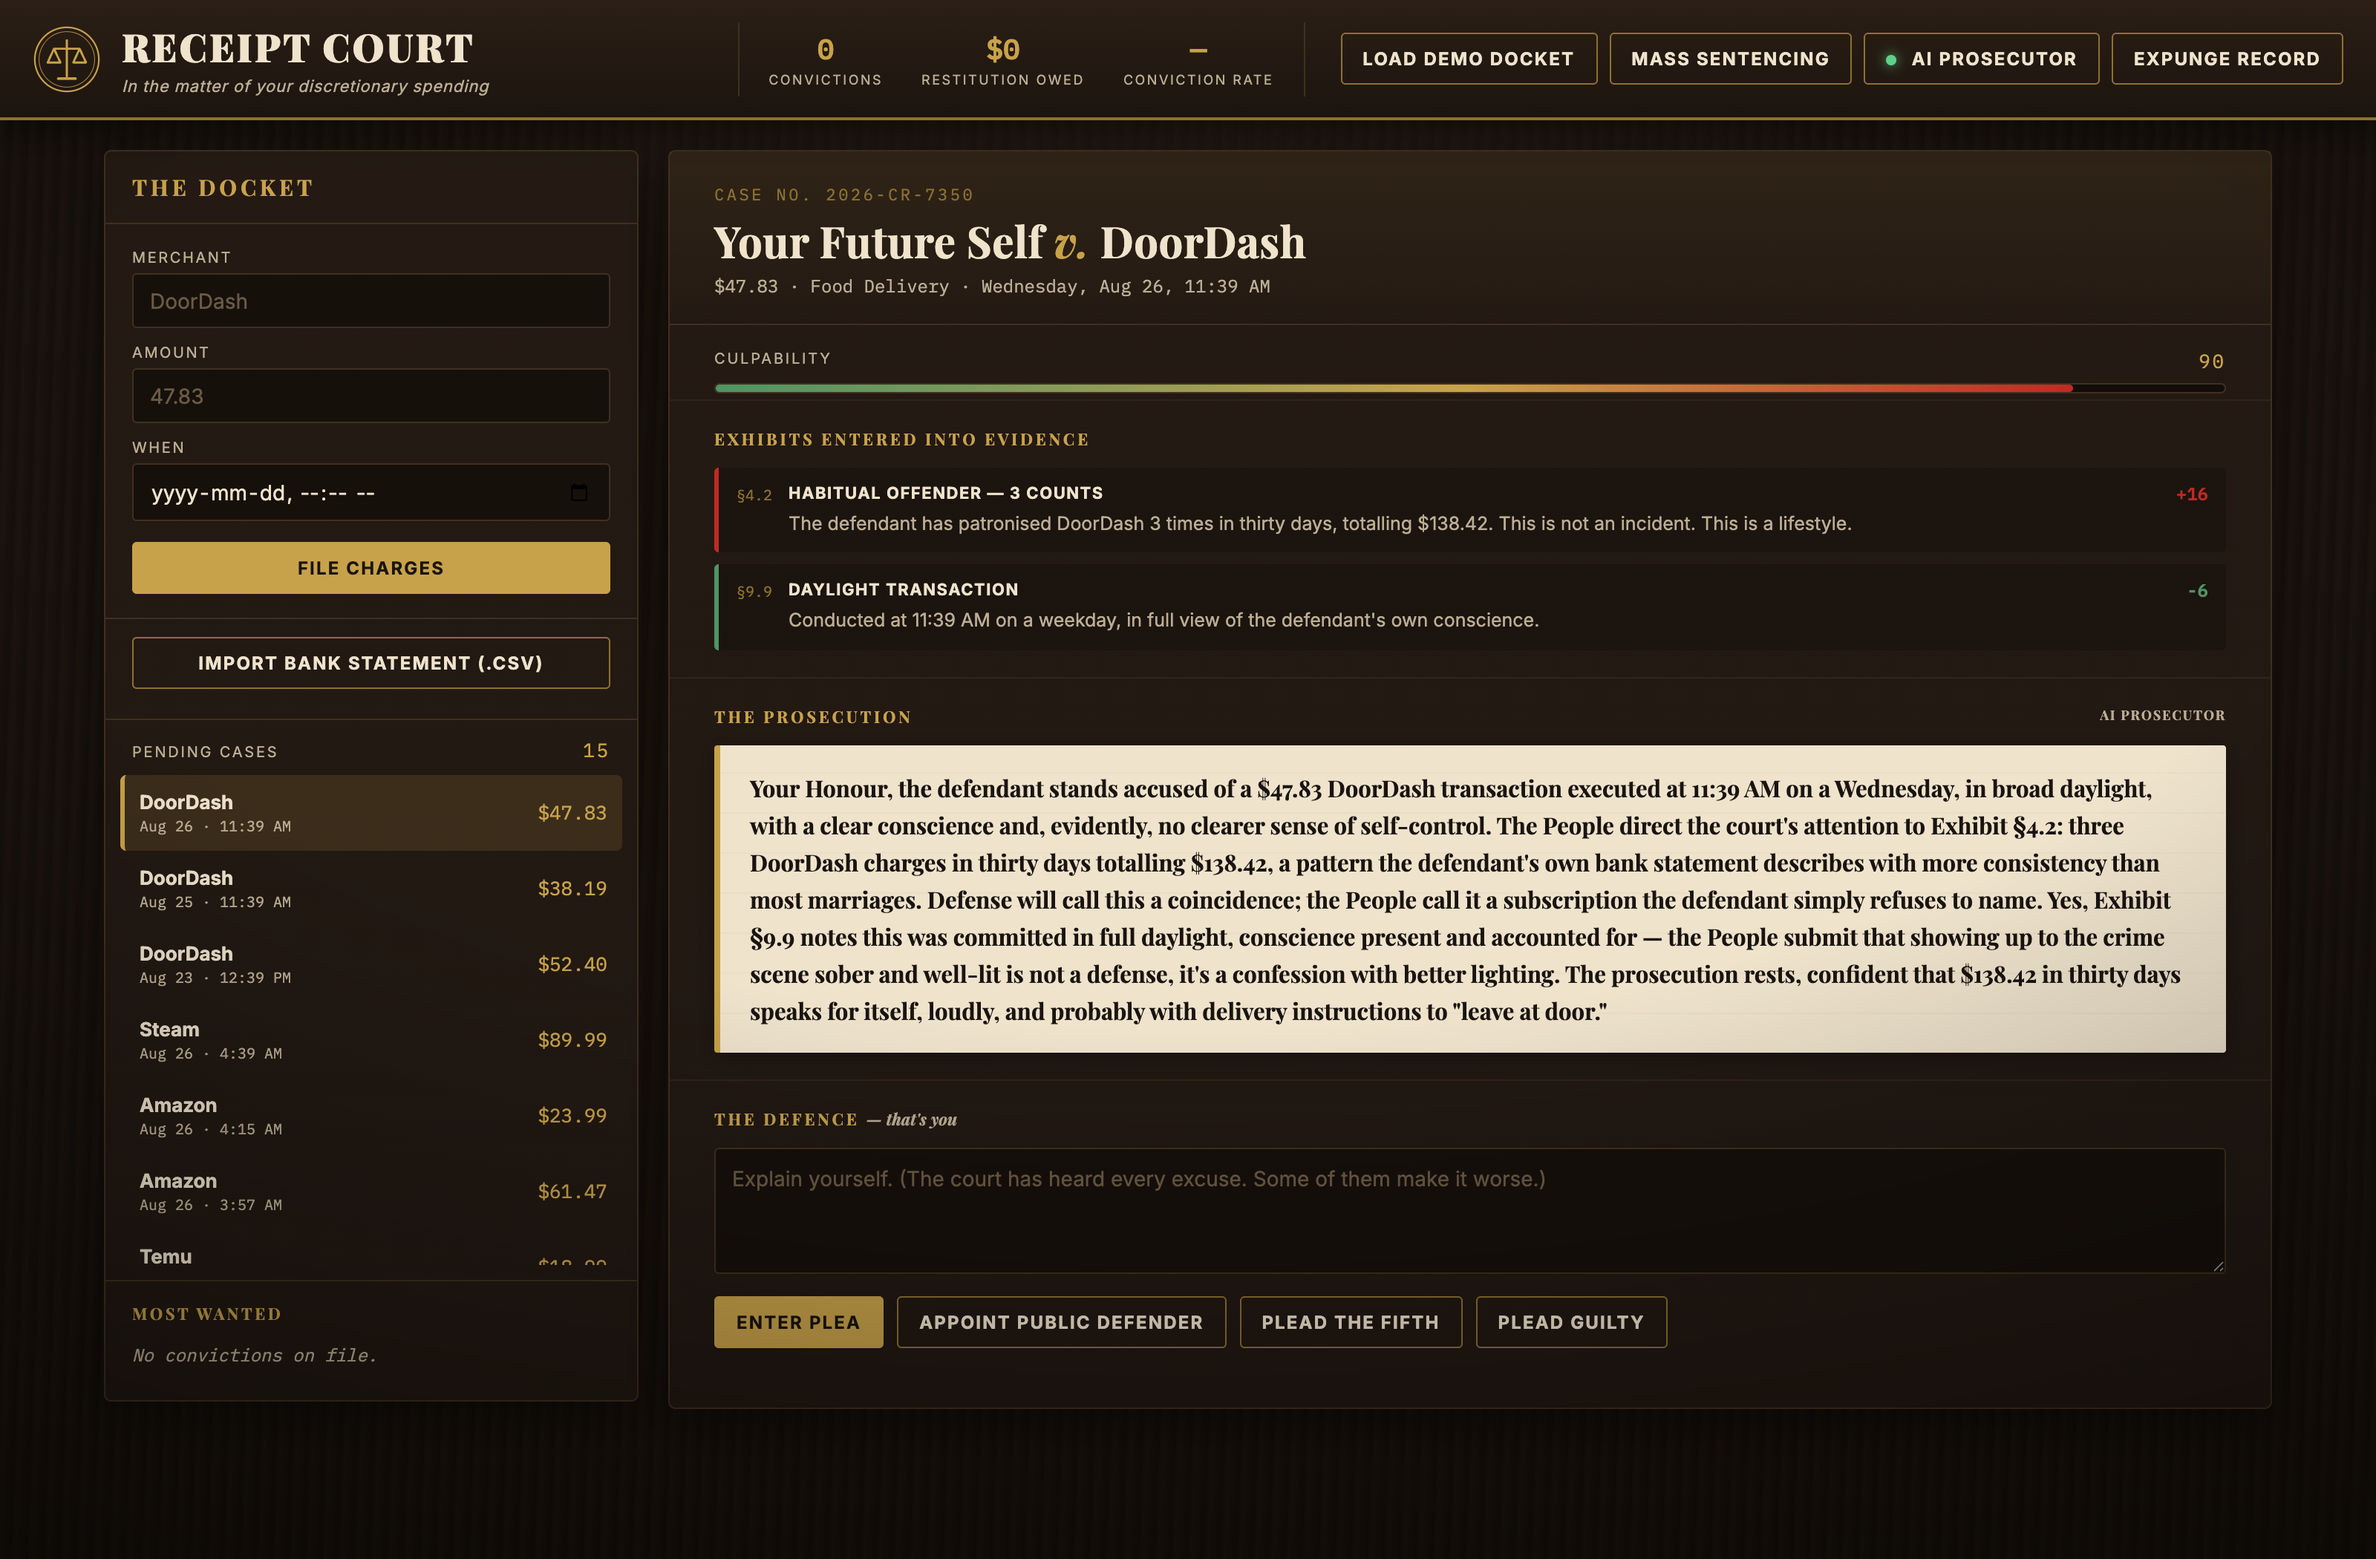
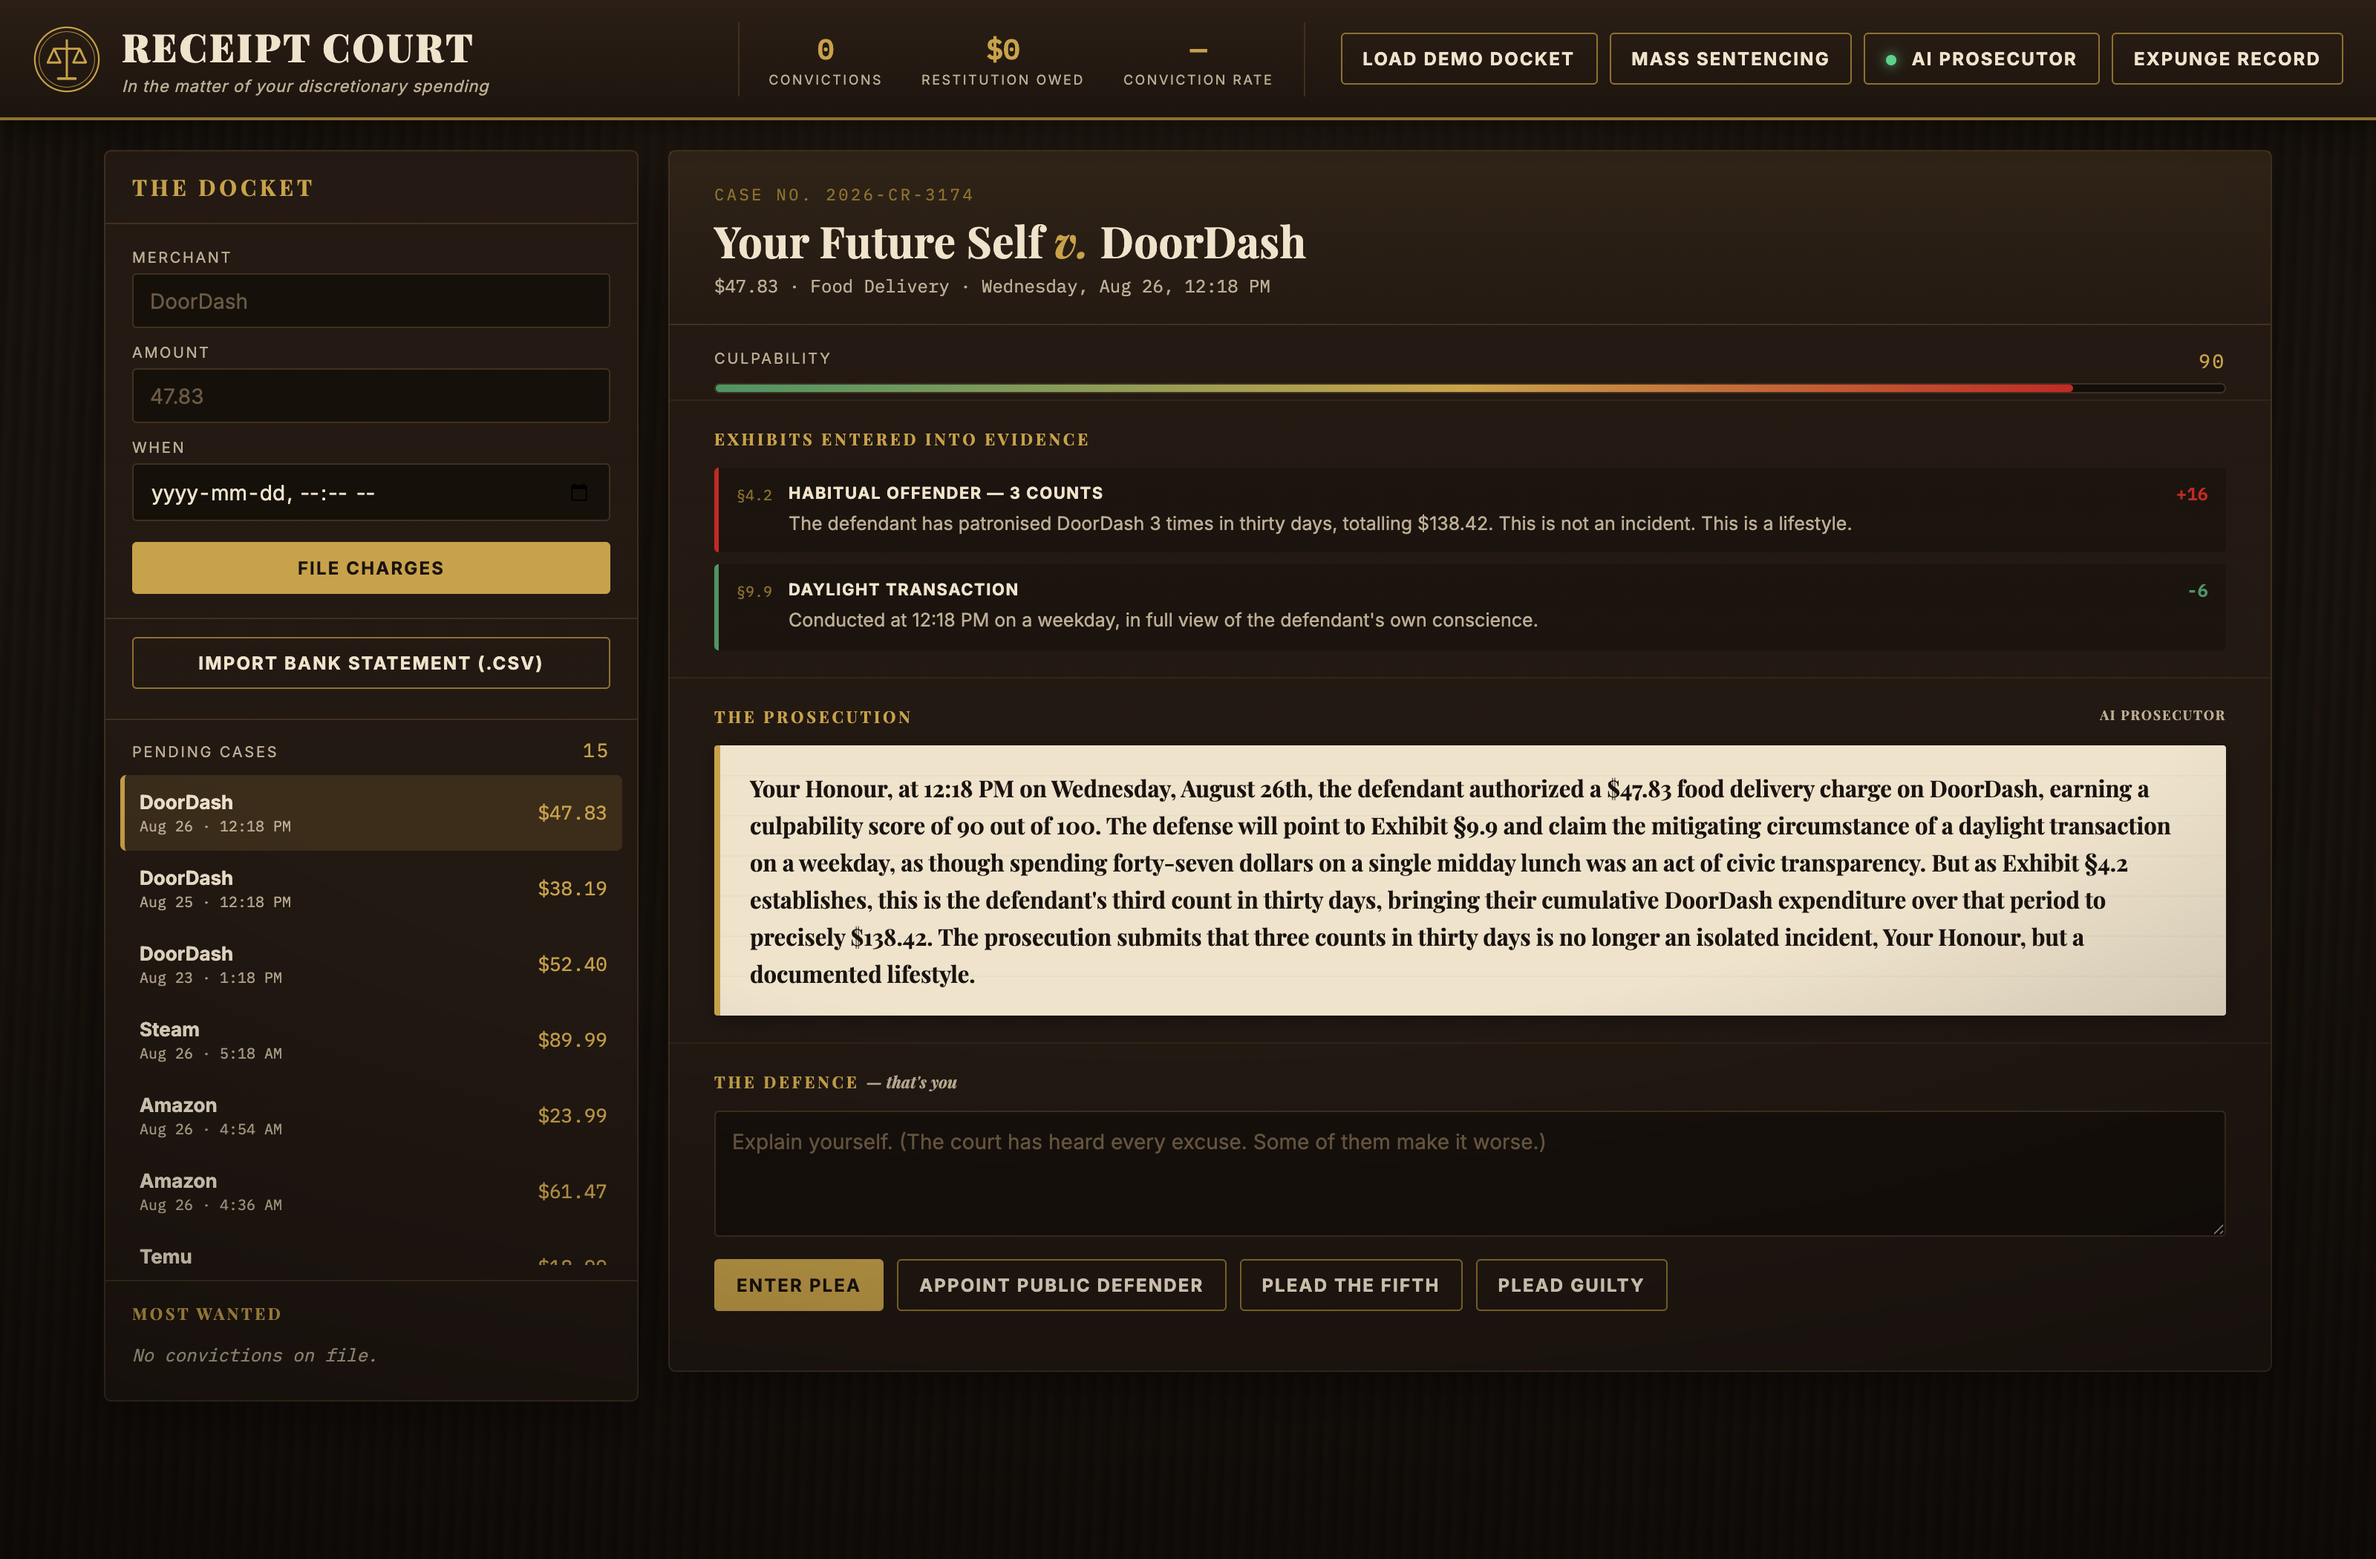
Auto-detect the local DA proxy and retain the AI prosecutor without configuration

Changed region(s): [[0.2812, 0.4952, 0.9375, 0.7738], [0.2812, 0.8048, 0.6875, 0.8667], [0.4062, 0.3714, 0.625, 0.4024]]

diff --git a/js/ai.js b/js/ai.js
@@ -34,6 +34,27 @@ export function saveConfig(cfg) {
   localStorage.setItem(STORE_KEY, JSON.stringify(cfg));
 }
 
+/**
+ * Zero-config detection: if the local DA proxy is listening, retain it
+ * automatically. Saves the defendant from typing a base URL into a form
+ * before the prosecution can do anything interesting.
+ */
+export async function autodetect() {
+  const saved = loadConfig();
+  if (saved.enabled && saved.apiKey) return saved;
+  try {
+    const res = await fetch(DEFAULT_CONFIG.baseUrl + '/v0/me', {
+      signal: AbortSignal.timeout(2500),
+    });
+    if (!res.ok) return null;
+    const cfg = { ...DEFAULT_CONFIG, apiKey: 'via-proxy', enabled: true };
+    saveConfig(cfg);
+    return cfg;
+  } catch {
+    return null;   // no proxy: the procedural prosecutor handles it
+  }
+}
+
 export function isLive() {
   const c = loadConfig();
   return Boolean(c.enabled && c.apiKey && c.baseUrl);
